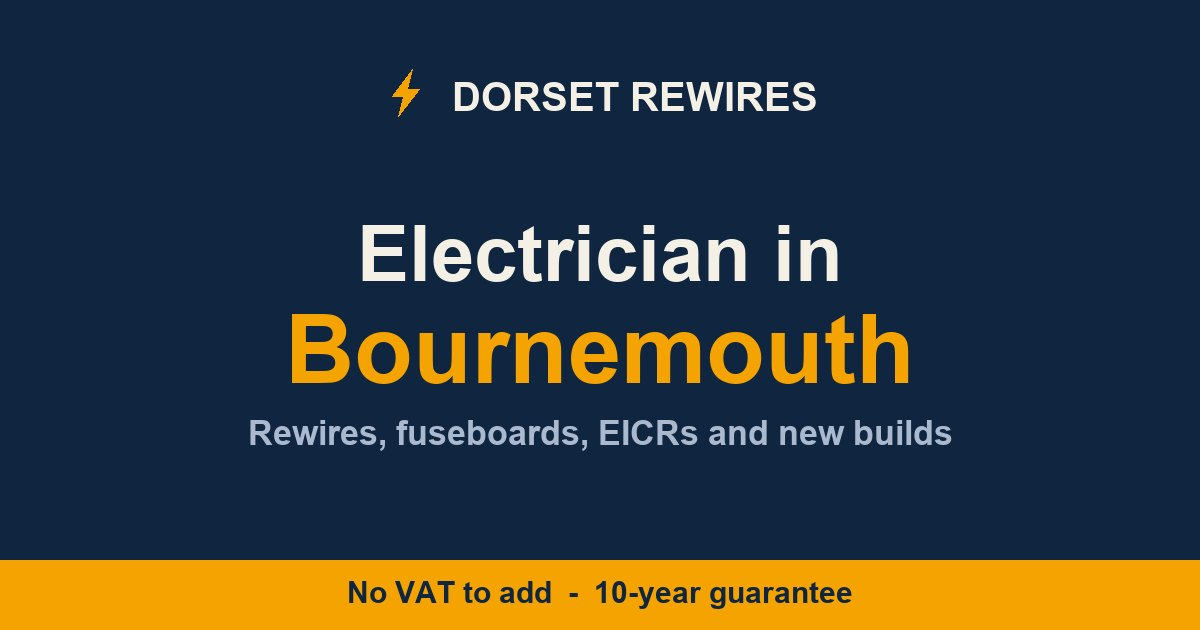
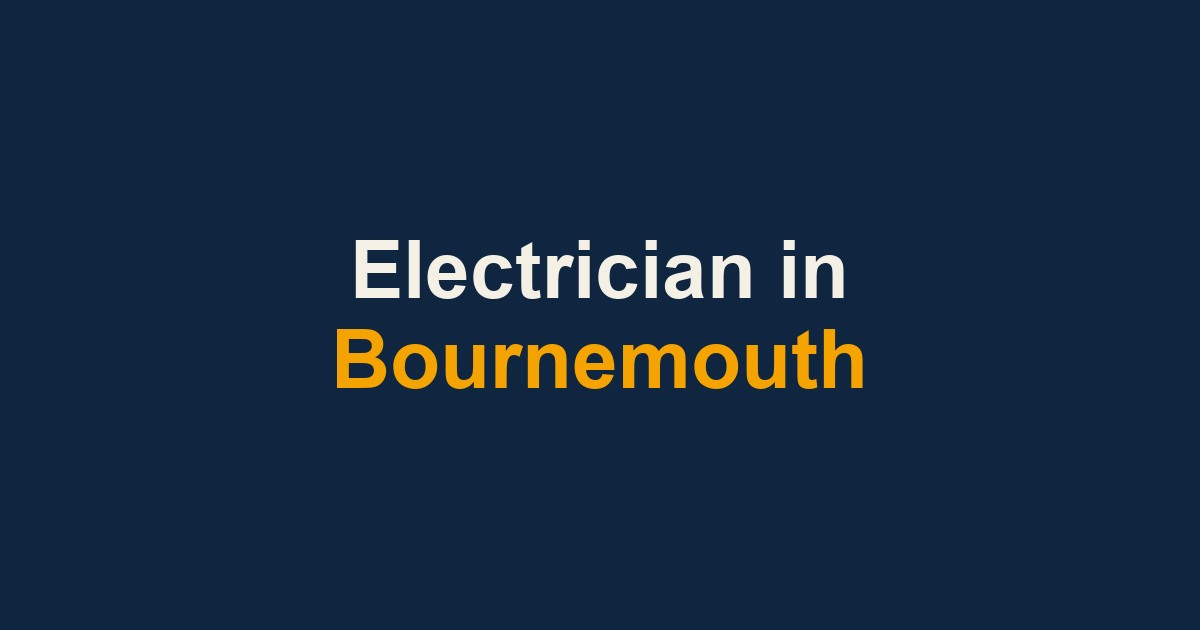
OG images: align town/service cards to the bare /refer standard; document the OG standard in design-system.md
- 9 town/service cards + EICR now use the bare 'Hormozi' style (navy field,
  cream context line + amber hero, no wordmark/strapline/trust-bar), matching
  the /refer and consumer-unit cards.
- EICR card moves from the clipping board-photo to clean centred text.
- Copy auto-shrinks to WhatsApp's square-crop safe zone so nothing clips.
- Records the OG / social-preview standard in design-system.md so future
  cards follow one format (answers 'do we need a branding standard' - yes).
- Homepage og-image.jpg (hand-built Quotes-not-estimates card) left as a
  documented exception.

diff --git a/design-system.md b/design-system.md
@@ -93,6 +93,38 @@ Real photos of Pete's boards. Replaces the old `.photo-stub` placeholders.
   describe what is shown ("wired and labelled by Dorset Rewires") - never imply a
   specific customer job. No NICEIC in shot. Keyword-relevant but not stuffed.
 
+## OG / social preview images (the "bare Hormozi" standard, 2026-07-07)
+
+Every shared link (WhatsApp, Facebook, X, iMessage) shows a 1200x630 card. ONE
+house style, so a link to any page looks like the same brand.
+
+- **Format**: plain navy field (`--c-navy`), a couple of BIG words, centred. One
+  cream context line stacked above one amber (`--c-amber`) hero line. NO wordmark,
+  NO strapline, NO trust bar, NO photo. Bold and sparse - the URL under the card
+  already carries the brand name, so the picture just lands one hook. This is the
+  treatment the `/refer` ("Earn / £300 / Refer us") and consumer-unit
+  ("10-year / warranty") cards set; everything else now matches it.
+- **What the amber hero says**: LOCATION pages lead with the town in amber
+  (`Electrician in` / **`Bournemouth`**); OFFER pages lead with the hook in amber
+  (`Your quote` / **`in 60 seconds`**). Amber is the one thing the eye should land on.
+- **Copy rules**: a few words only, and only NON-DRIFT claims - no live prices
+  (the fixed `£300` referral and `10-year` guarantee are safe; a quote price is
+  not), and never "NICEIC" (application still pending - see the compliance memo).
+- **Square-crop safe zone**: WhatsApp centre-crops the thumbnail to a SQUARE,
+  keeping only the middle ~560px of the 1200 width. Every line MUST fit inside
+  that or it clips (this ate the left edge of the old cards). The generator
+  auto-shrinks a long word (Christchurch) to fit; keep hand-tuned cards short.
+- **How to make/change one**: they are generated, never hand-edited -
+  `python ops/tools/make-og-images.py` (Pillow, Arial Bold substituting for Inter,
+  JPEG q90, overwrites `public/og-*.jpg` in place). Add a page to the `PAGES` list
+  (filename, context line, hero line) and re-run. Then `check-og-images.py`
+  (bundled in preflight) confirms every page's `og:image` points to a real file.
+- **Deliberate exceptions** (leave these alone): the homepage `public/og-image.jpg`
+  ("Quotes, not estimates.") is a hand-built Playwright render
+  (`ops/tools/_review/og-card.html`), kept on purpose; `/refer` and the
+  consumer-unit card are multi-line but the same bare aesthetic, hand-tuned in
+  `build_refer()` / `build_cu()`.
+
 ## Governance - how this stays true
 
 1. **Reuse first**: before building a component, check this doc + `ops/templates/`.
